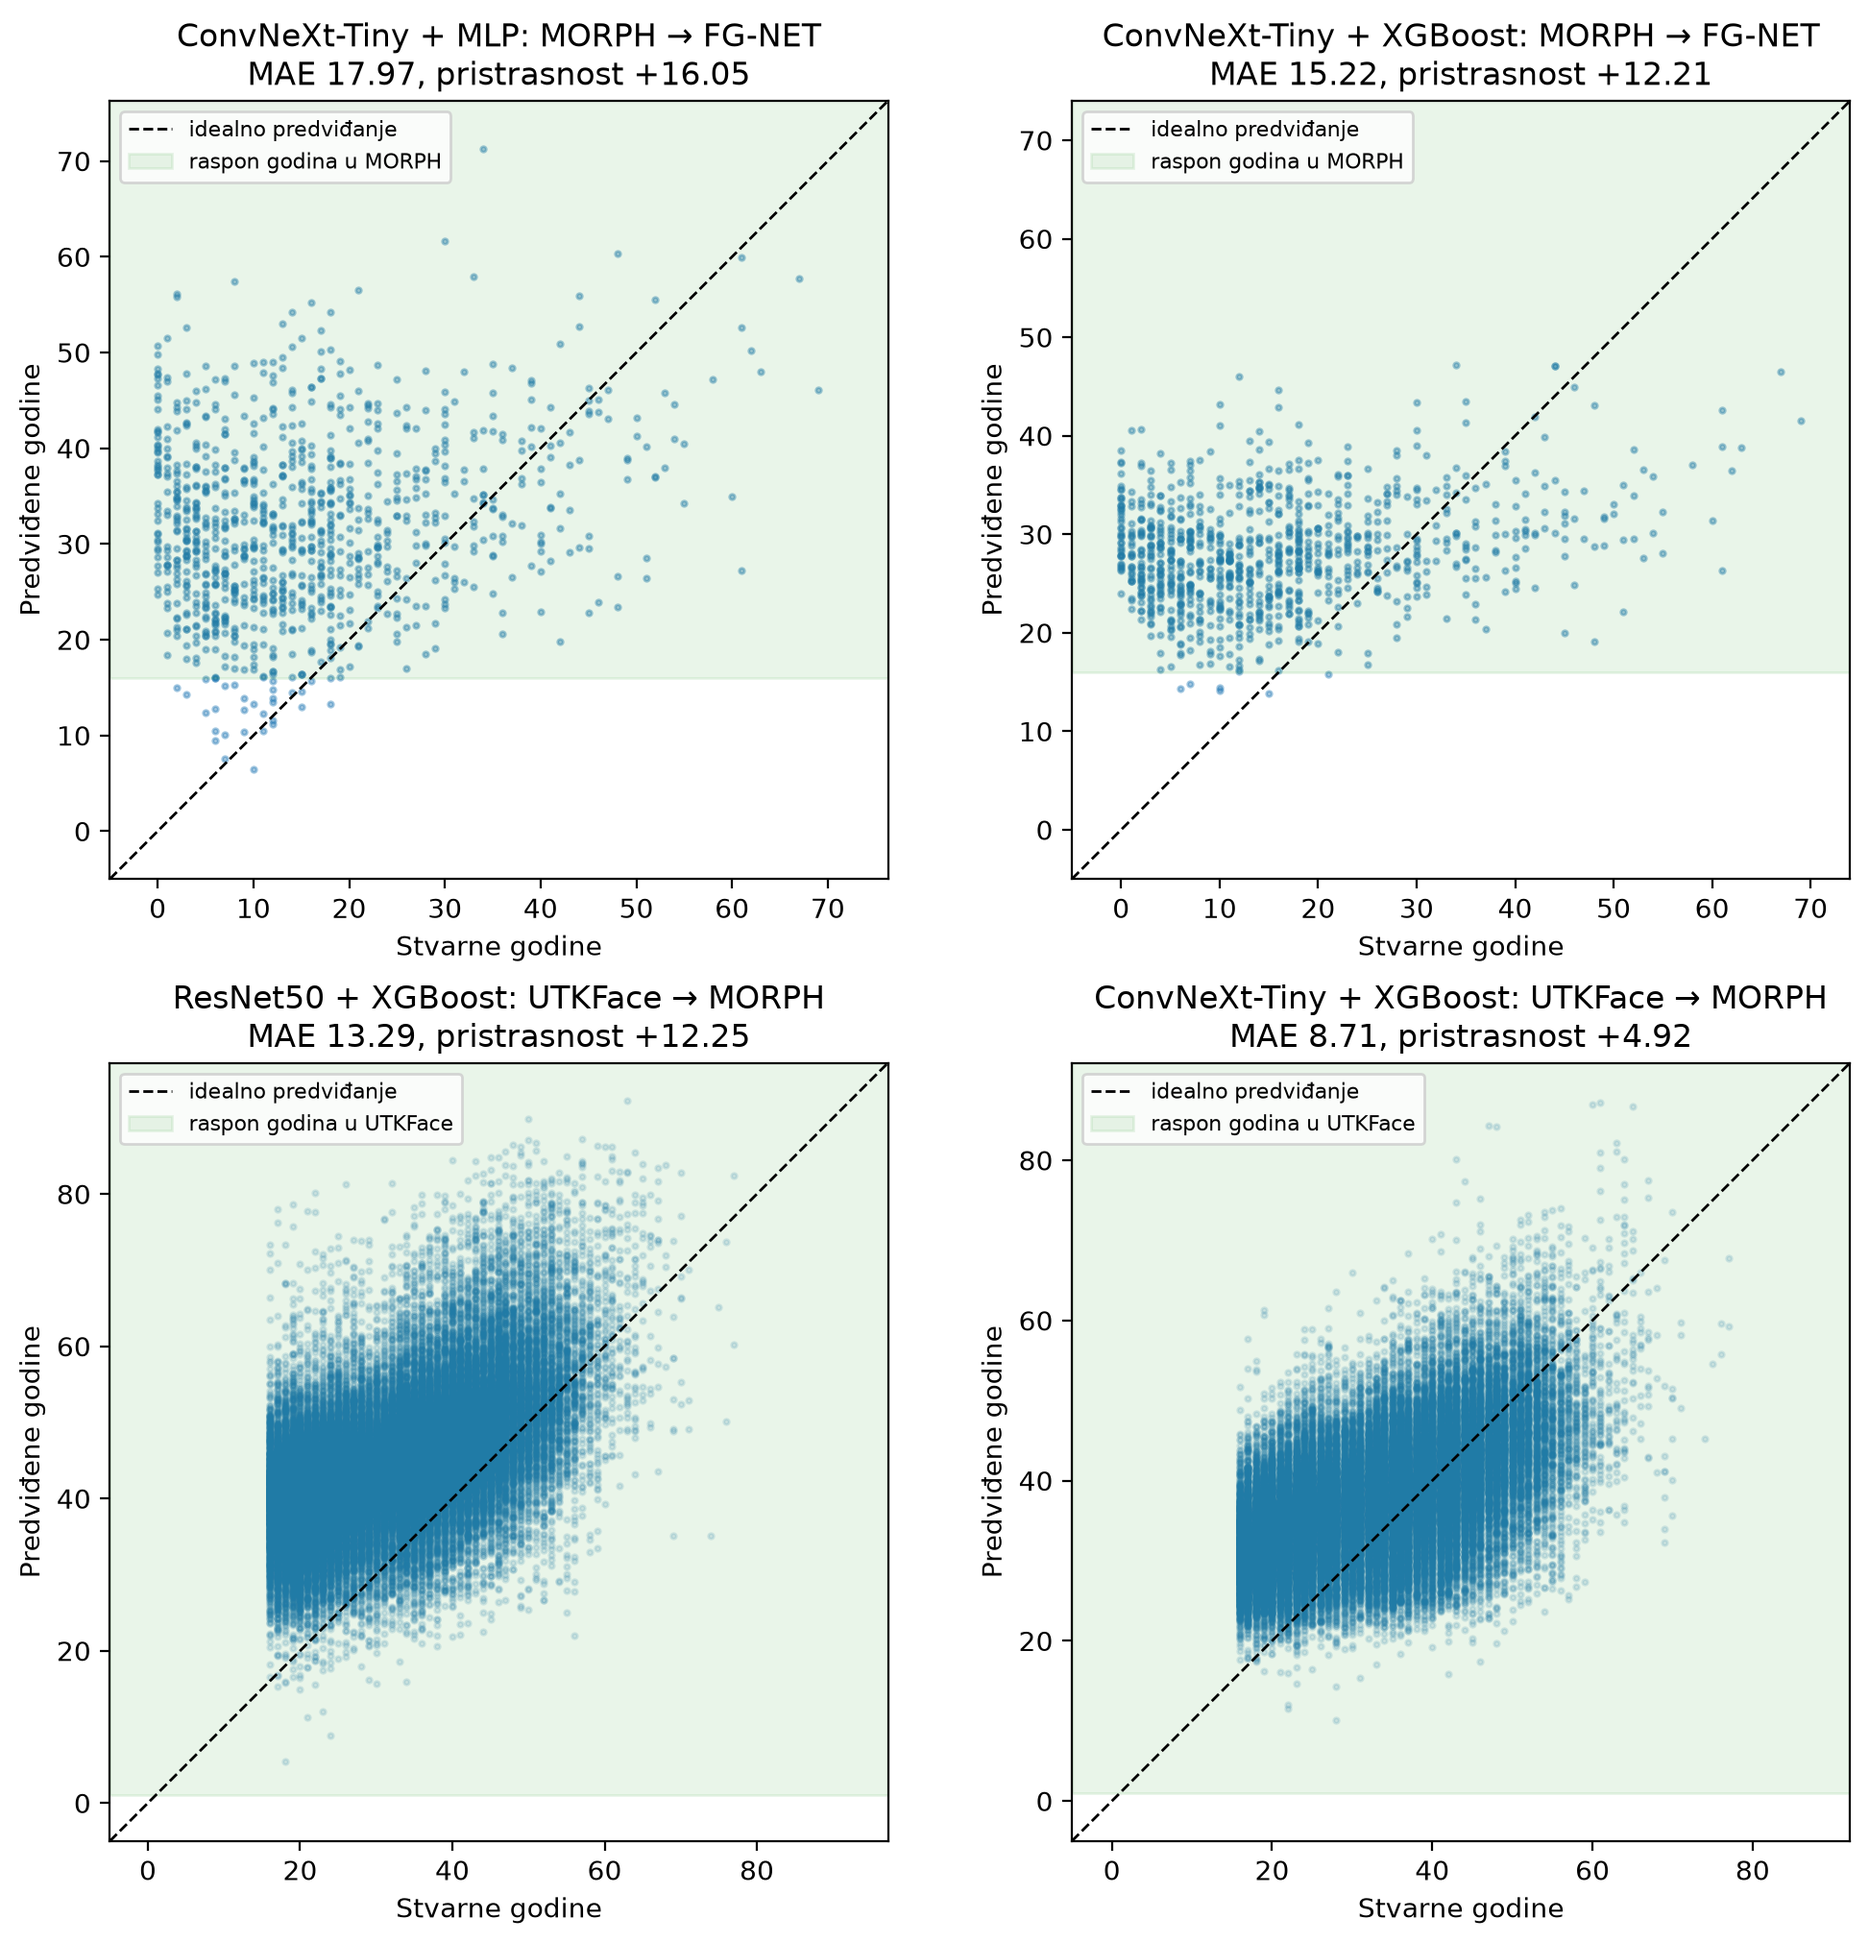
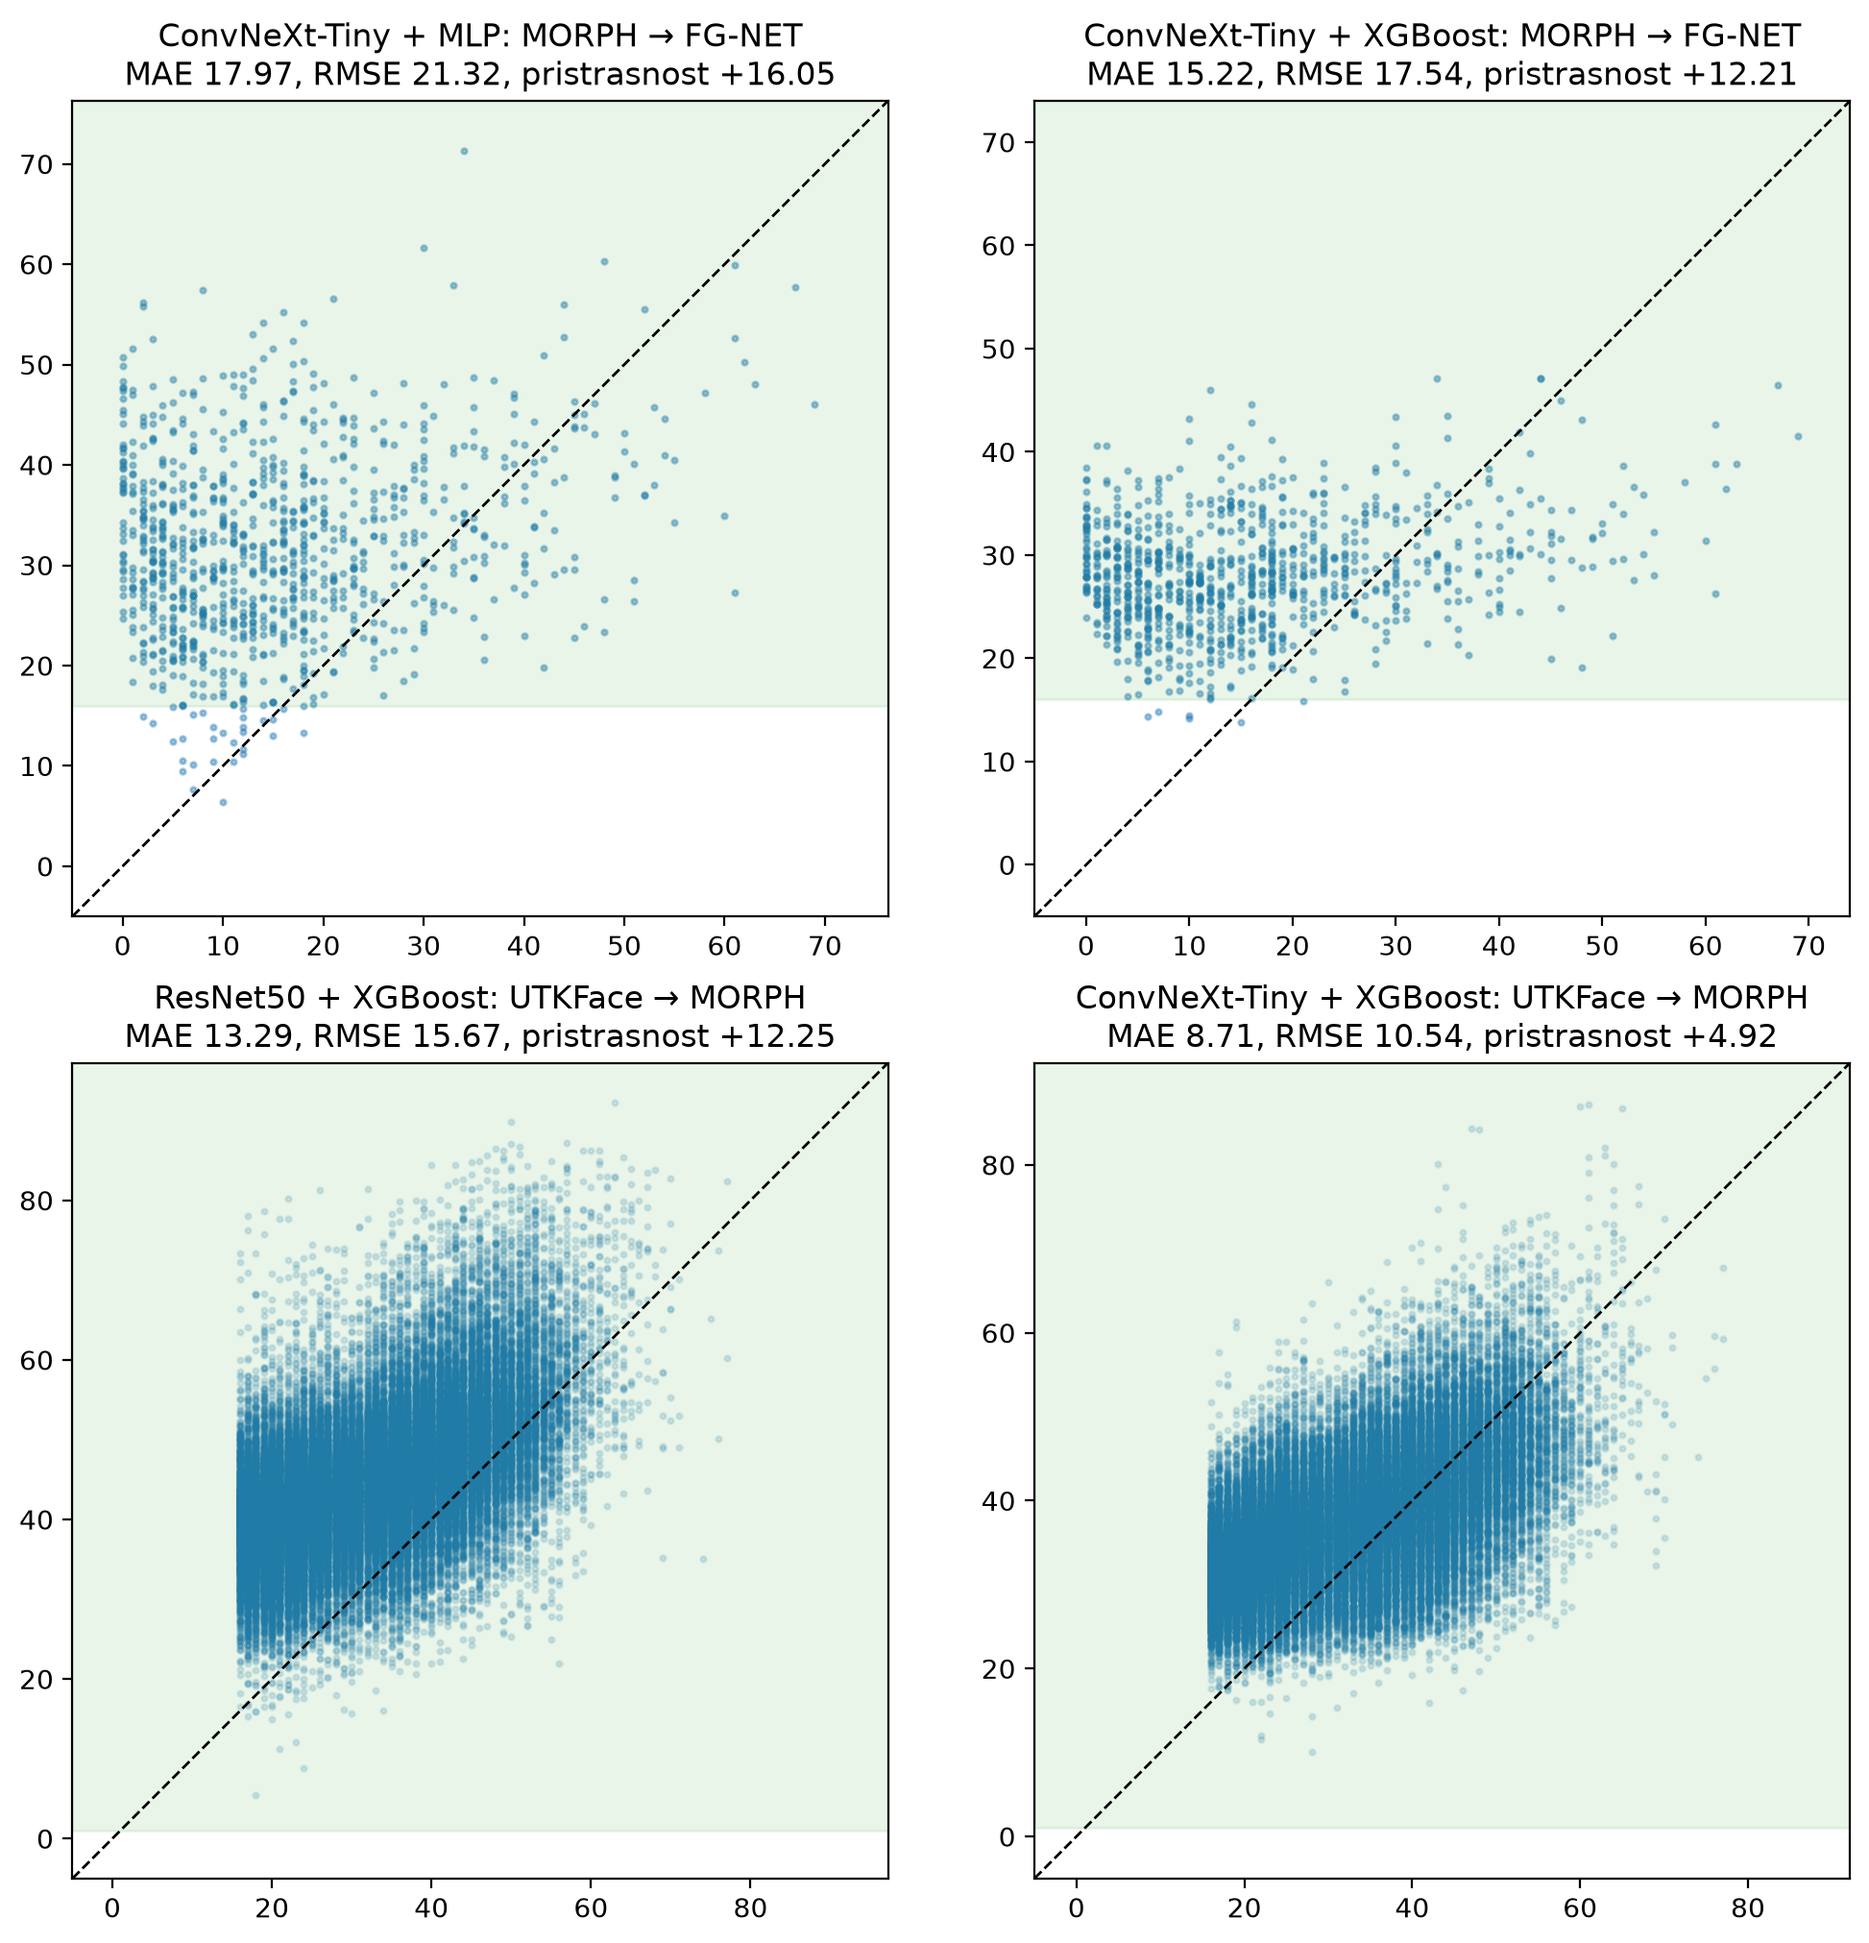
Heatmap RMSE metrike i RMSE na grafiku predviđanja

diff --git a/src/plots.py b/src/plots.py
@@ -90,9 +90,10 @@ def plot_heatmaps(df: pd.DataFrame, metric: str = "mae") -> None:
         ax.set_ylabel("Skup za treniranje")
         ax.set_title(f"{CNN_NAMES[cnn]} + {ML_NAMES[ml]}")
 
-    fig.colorbar(image, ax=axes, shrink=0.6, label="MAE (godine)")
-    fig.suptitle("MAE unakrsnog testiranja (uokvirena dijagonala = validacija unutar skupa)")
-    save(fig, "heatmap_mae.png")
+    fig.colorbar(image, ax=axes, shrink=0.6, label=f"{metric.upper()} (godine)")
+    fig.suptitle(f"{metric.upper()} unakrsnog testiranja "
+                 f"(uokvirena dijagonala = validacija unutar skupa)")
+    save(fig, f"heatmap_{metric}.png")
 
 
 def plot_pred_vs_true() -> None:
@@ -112,12 +113,10 @@ def plot_pred_vs_true() -> None:
         ax.set_aspect("equal")
 
         mae = np.mean(np.abs(pred - y))
+        rmse = np.sqrt(np.mean((pred - y) ** 2))
         bias = np.mean(pred - y)  # > 0: model u proseku stari, < 0: podmlađuje
         ax.set_title(f"{CNN_NAMES[cnn]} + {ML_NAMES[ml]}: {NAMES[train]} → {NAMES[test]}\n"
-                     f"MAE {mae:.2f}, pristrasnost {bias:+.2f}")
-        ax.set_xlabel("Stvarne godine")
-        ax.set_ylabel("Predviđene godine")
-        ax.legend(loc="upper left", fontsize=8)
+                     f"MAE {mae:.2f}, RMSE {rmse:.2f}, pristrasnost {bias:+.2f}")
 
         print(f"  {cnn} + {ml}, {train} -> {test}: predviđanja od {pred.min():.1f} "
               f"do {pred.max():.1f} (trening: {y_train.min():.0f}-{y_train.max():.0f}), "
